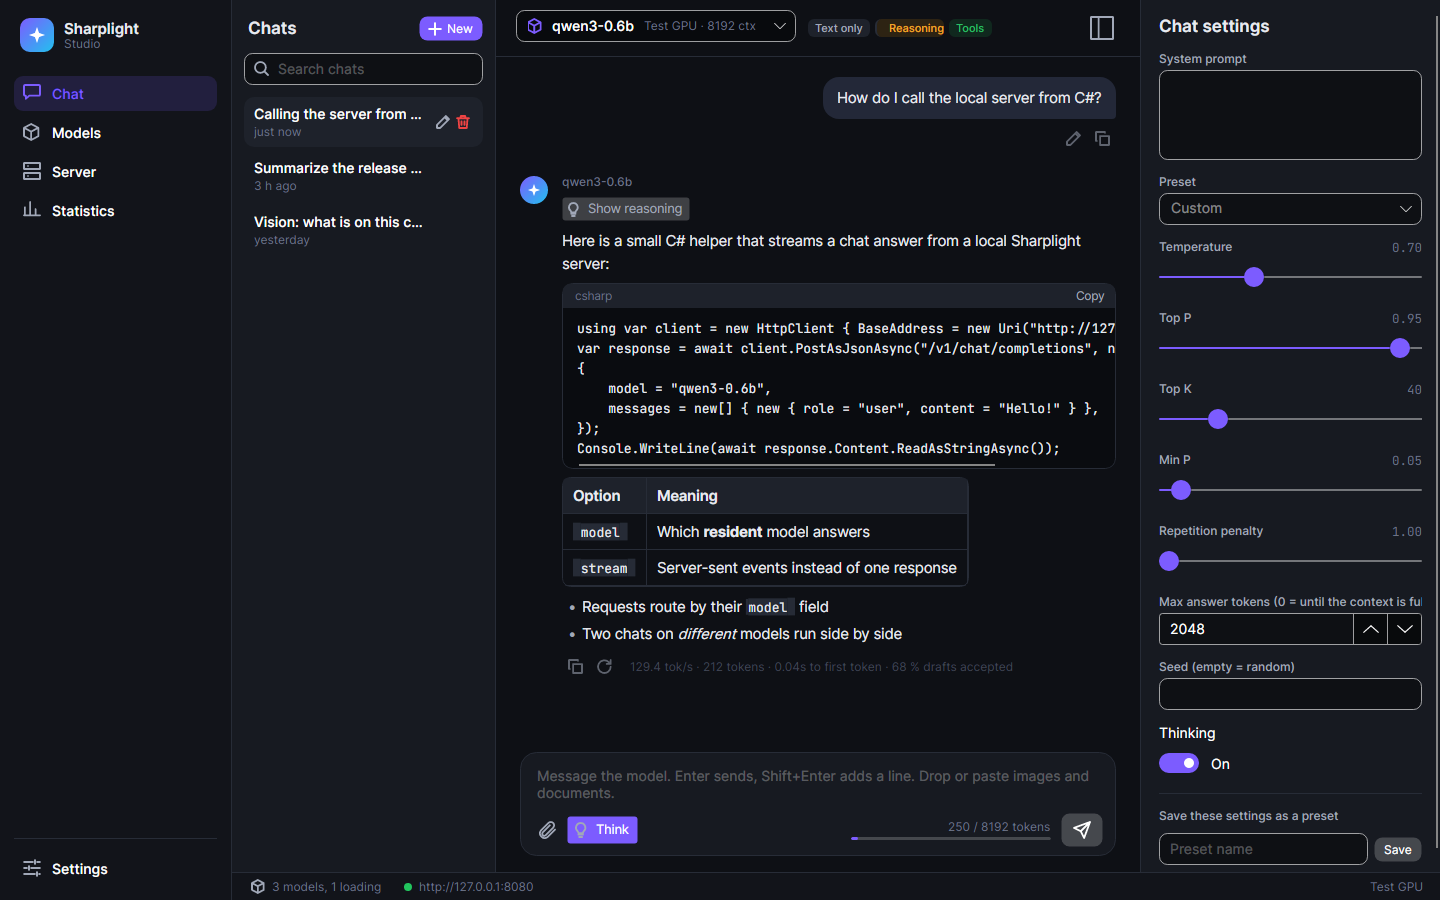
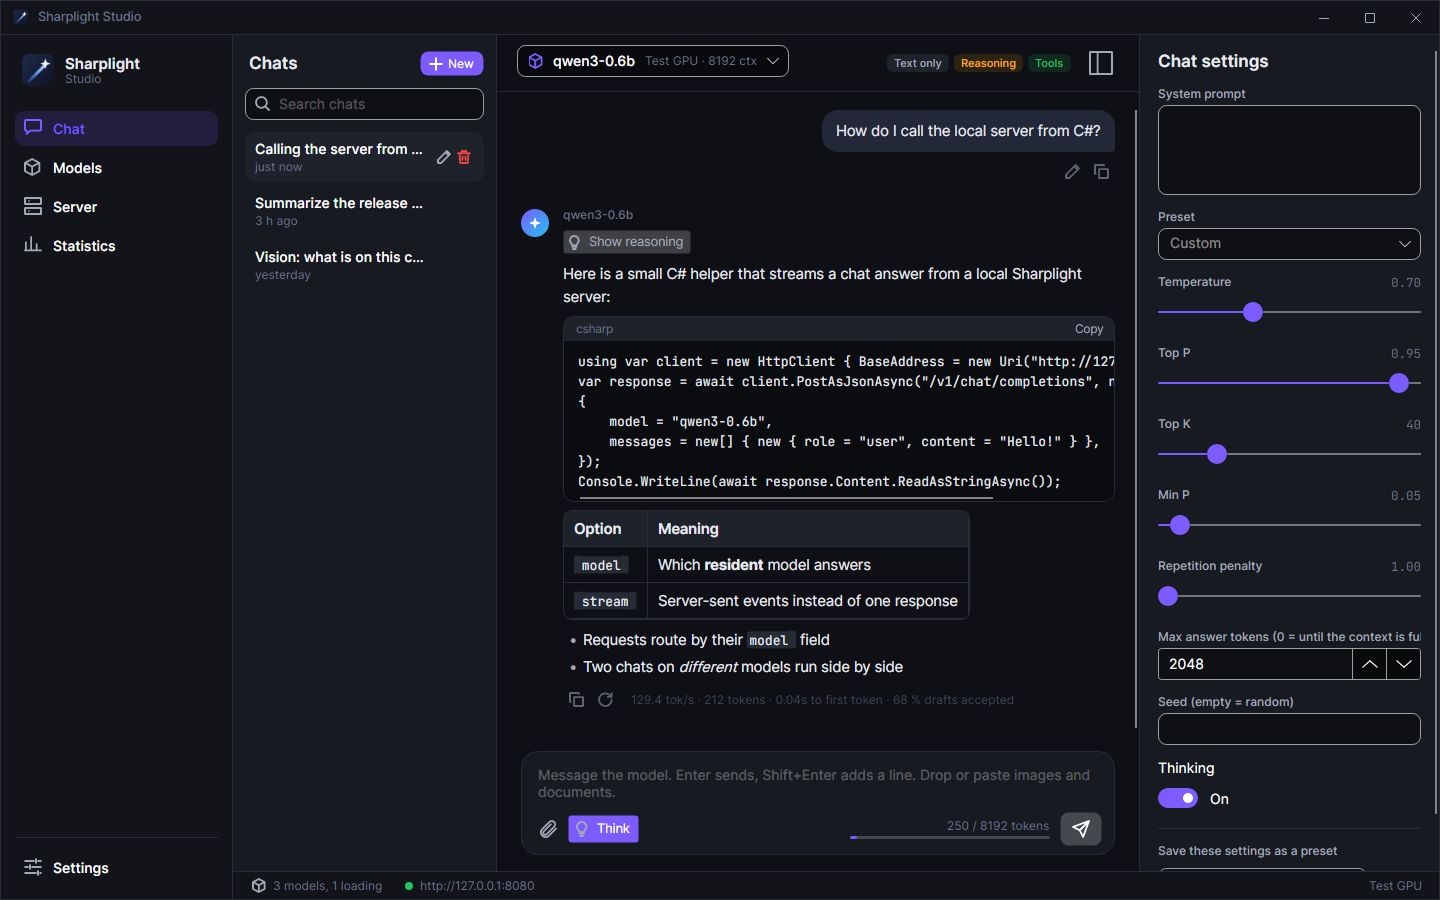
docs/studio.md: window chrome, Discover highlights, supported-only filter, header import check; screenshots

diff --git a/docs/studio.md b/docs/studio.md
@@ -11,6 +11,20 @@ dotnet run -c Release --project apps/Sharplight.Studio -- --models-dir /data/mod
 
 ![Chat](images/studio/studio-chat.png)
 
+## Window
+
+On Linux, Studio draws its own title bar in the app's colors (light and dark): the app icon, the title, and minimize, maximize and
+close buttons. Dragging the title bar moves the window, double-clicking it maximizes, the edges and corners resize, and dragging to
+a screen edge snaps as usual. All of this is asked of the window manager (`_NET_WM_MOVERESIZE`), so Studio uses its own title bar
+only when the window manager announces that request (KWin, Mutter and most others, on X11 and for XWayland windows); otherwise the
+system frames the window. *Use the system title bar* in the settings, or `SHARPLIGHT_STUDIO_TITLE_BAR=system` (or `custom`),
+overrides the choice. Other platforms use the system title bar.
+
+The icon is embedded in the app (window and taskbar icon, sidebar logo, and the Windows executable icon). The sizes in
+`apps/Sharplight.Studio/Assets/Icons` are rendered from `packaging/linux/sharplight-studio.svg` by `packaging/make-studio-icons.py`.
+The X11 window class is `sharplight-studio`, the `StartupWMClass` of the desktop file, so the taskbar groups the window under its
+launcher.
+
 ## Pages
 
 **Chat.** Conversations are stored, one per entry in the list. Answers stream as Markdown (code blocks have a copy button, tables,
@@ -24,6 +38,21 @@ different models run at the same time. Images and documents can be attached by d
 **Models.**
 
 ![Discover](images/studio/studio-discover.png)
+
+- Before anything is searched, *Discover* shows highlighted models in three sections: *Trending*, *New* (created in the last few
+  months) and *Most downloaded*. They come from the Hub's listings (trending, likes and downloads, GGUF and safetensors,
+  text-generation and image-text-to-text) and keep only repositories whose badge is *Supported*. The answer is kept for six hours in
+  `discover-highlights.json` next to `studio.db`, so opening Discover again or restarting does not ask the Hub again, and an older answer
+  is shown while the Hub cannot be reached.
+
+  ![Discover highlights](images/studio/studio-discover-highlights.png)
+  ![Discover highlights, light theme](images/studio/studio-discover-highlights-light.png)
+
+- *Supported only* hides repositories and quantizations whose compatibility badge is not *Supported*, and says how many it hid.
+  The choice is kept in the settings.
+
+  ![Supported only](images/studio/studio-discover-supported-only.png)
+  ![Supported only, light theme](images/studio/studio-discover-supported-only-light.png)
 
 - *Discover* searches Hugging Face (format filter, gated models hidden on request) and lists a repository's quantizations with
   their sizes. Each quantization gets an approximate fit badge for this machine (*Fits*, *Fits on 2 GPUs*, *Fits after unloading*,
@@ -44,9 +73,13 @@ different models run at the same time. Images and documents can be attached by d
   The checks come from the importers, not from lists in Studio:
   - GGUF: `general.architecture` against the registered mappings (`GgufSupport`). Partial support is what a mapping declares, e.g.
     Qwen3.8-Flash-Next (`qwen4exp`), whose block indexer runs in its dense regime only. When the recommended quantization is
-    opened, or another one is selected, its tensor table is read too: a prefix of up to 32 MiB, fetched in steps. Every ggml type id
-    must be known and have CPU kernels (`CpuExecutionProvider.SupportsWeightType`). Every provider falls back to the CPU, so a type
-    without CPU kernels, such as `Q8_K`, cannot load. Of a split GGUF only the first shard's tensors are read.
+    opened, or another one is selected, its whole tensor table is read too (of every shard of a split GGUF): a prefix of up to
+    64 MiB per file, fetched in steps. Every ggml type id must be known and have CPU kernels
+    (`CpuExecutionProvider.SupportsWeightType`). Every provider falls back to the CPU, so a type without CPU kernels, such as `Q8_K`,
+    cannot load. The header then goes through the importer's own mapping steps (`GgufSupport.Validate`): the mapping's feature and
+    hyper-parameter checks (`IGgufArchitectureMapping.Validate`, which the importer runs too) and the canonical name of every tensor.
+    A tensor the mapping does not know gives *Unsupported variant of &lt;architecture&gt;*. When part of a tensor table lies beyond
+    what was read, the verdict is *Unknown*, never *Supported*.
   - Hugging Face checkpoints: the `model_type` against the mappings (`HfSupport`), and the quantization in `config.json` (and
     ModelOpt's `hf_quant_config.json`). FP8 (block scales, compressed-tensors with 8-bit float weights, ModelOpt FP8) and MXFP4 for
     gpt-oss are read. GPTQ, AWQ, bitsandbytes, MLX, integer or 4-bit compressed-tensors, ModelOpt NVFP4 and similar packed formats
@@ -149,6 +182,7 @@ and the recent requests. A live strip shows decode throughput, CPU, engine activ
   - pinning of manual loads;
   - on-demand loading.
 - New-chat defaults.
+- *Use the system title bar* (see [Window](#window)).
 - The engine's device features, each of which can be switched off to fall back to a portable path.
 - **Reduced precision** (off by default) opts in to faster f16 kernel paths where the default keeps near-f32 accuracy. Outputs may
   differ slightly.
@@ -160,7 +194,7 @@ and the recent requests. A live strip shows decode throughput, CPU, engine activ
 | What | Where |
 |---|---|
 | Settings (`settings.json`), including the download queue | `sharplight/studio` under the roaming application data directory (`~/.config` on Linux) |
-| Conversations and statistics (`studio.db`) | `sharplight/studio` under the local application data directory (`~/.local/share` on Linux) |
+| Conversations and statistics (`studio.db`), Discover's highlights (`discover-highlights.json`) | `sharplight/studio` under the local application data directory (`~/.local/share` on Linux) |
 | Models | The model store: `data` next to the app by default, else the folder chosen in the settings (see above); converted local models go to `converted/` in it by default |
 | Compiled kernels | `sharplight/kernels` under the local application data directory (`~/.local/share` on Linux), shared by every tool |
 
@@ -199,6 +233,10 @@ keep using the user folder or to move or copy the models into the new store.
 - the downloads queue (pause, resume, cancel, restore after restart);
 - fit estimates: the planner (unloading, offload, system memory, split GPUs), the load panel's estimate and suggestions, and the
   download badges;
+- the title bar choice (own or system), and Discover's highlights (sections, filtering, the cache and its lifetime) and the
+  *Supported only* filter;
+- the header-only import check on the header of a Gemma 4 mixture-of-experts GGUF (every tensor of the table, compared with the
+  importer on the same header);
 - compatibility checks before downloading, on the tiny GGUFs and Hugging Face configs under `~/models` when present (an unmapped
   architecture, an mmproj projector, a partial architecture, real quantized tensor tables read from a prefix, synthetic `Q8_K` and
   unknown type ids, quantized checkpoints, ONNX opsets read behind the graph), the result order, the per-quantization badges and the
@@ -223,9 +261,10 @@ packages in both themes.
 - **Fit estimates.** The load panel's estimate is the engine's own, but free memory can change before the load (other
   applications), and the vision tower of an image conversation is not counted. Download badges are approximate: they know the
   file sizes and, where readable, the attention dimensions, not the exact graph.
-- **Compatibility checks.** They are likely verdicts, not guarantees. A mapped architecture can still use a hyper-parameter or
-  tensor layout its mapping rejects; that only shows at import. Quantizations other than the recommended one share the
-  architecture's verdict until they are selected and their tensor tables are read. A tensor table beyond 32 MiB from the start of
-  the file is not read. ONNX operators are not checked before import.
+- **Compatibility checks.** They are likely verdicts, not guarantees: a GGUF header that maps can still fail on something only its
+  tensor data shows. Quantizations other than the recommended one share the architecture's verdict until they are selected and
+  their tensor tables are read. A tensor table beyond 64 MiB from the start of a file is not read (the verdict is *Unknown*). ONNX
+  operators are not checked before import.
+- **Title bar.** Studio's own title bar is used on Linux only, where the window manager moves and resizes windows on request.
 - **GPU utilisation.** The "Engine busy" chart is the share of time the engines spend stepping, not GPU utilisation read from the
   driver.
